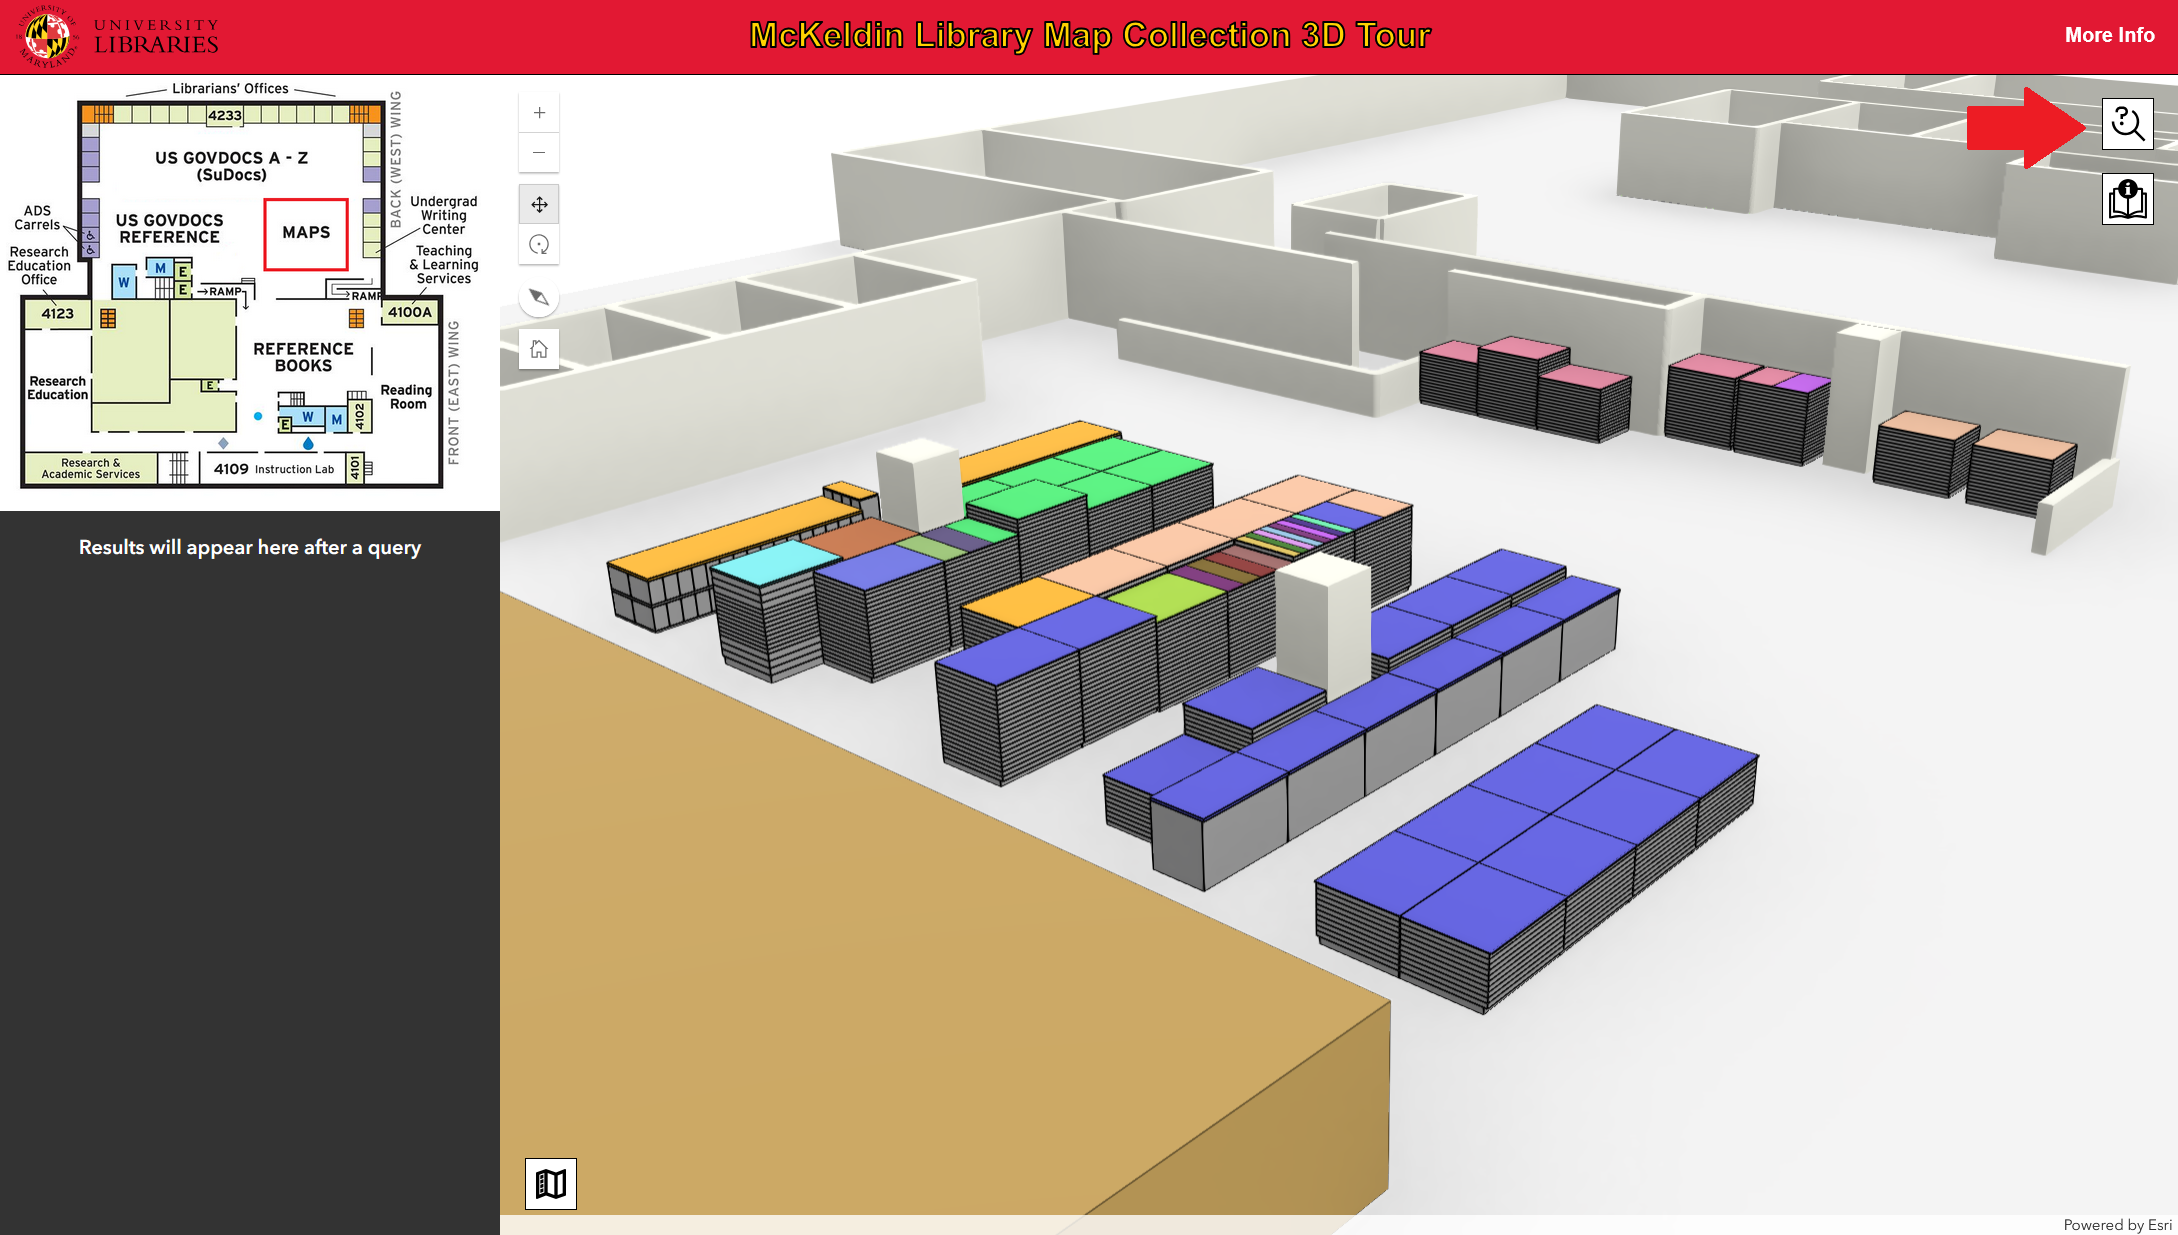
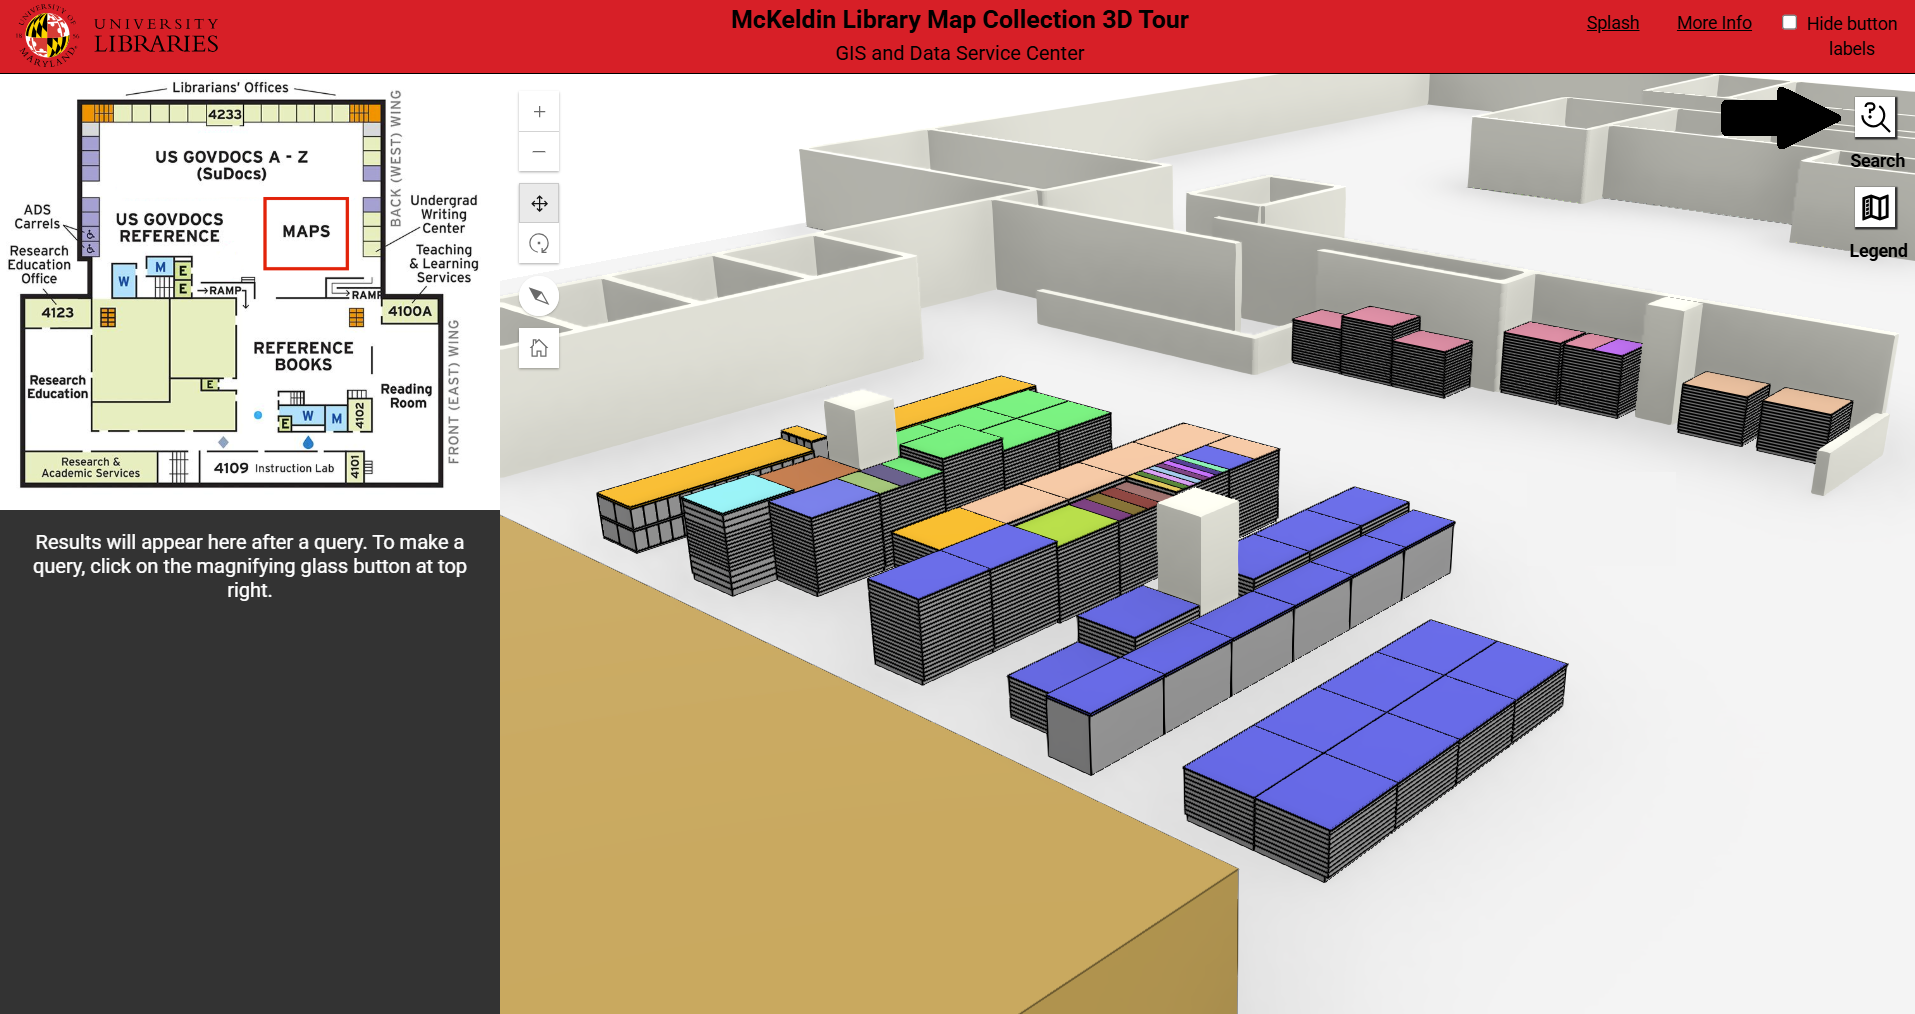
Updated splash page.

diff --git a/index.html b/index.html
@@ -106,46 +106,64 @@
       </div>
       <div id="splash-content">
         <p id="infoModal-text">
-          This app provides a way to explore the McKeldin Library map collection
-          online.
+          This application provides a way to explore the McKeldin Library map
+          collection online. The collection contains over 200,000 items,
+          including maps, relief models, and atlases. There are multiple ways to
+          begin your exploration and discovery process.
         </p>
+        <img
+          id="popup-tutorial"
+          src="images/overview.png"
+          alt="Overview of application"
+        />
         <p id="infoModal-text">
-          Use the map controls at top left to manually explore the 3D
-          environment.
+          Below is an overview of the basic map controls. The zoom buttons allow
+          you to zoom in or out. Movement is primarily controlled through the
+          pan and rotate buttons, which can be toggled on or off as needed. Pan
+          allows you to move around the scene. Rotate allows you to change your
+          viewing angle. The direction button shows where north is in relation
+          to your current viewing angle. Finally, the home button allows you to
+          return to the default starting viewing angle and zoom as desired.
         </p>
         <img
           id="popup-tutorial"
           src="images/map-controls.png"
-          alt="Map Controls"
+          alt="Map controls"
         />
         <p id="infoModal-text">
-          You can search through the collection by clicking on the search
-          button.
+          You can use the controls to move around the scene and click on
+          individual features to get an idea of the categories and ranges of the
+          maps contained within. However, the quickest and easiest way to find
+          specific types of maps is to use the search functionality. This can be
+          accessed by clicking on the search button, shown below.
         </p>
         <img
           id="popup-tutorial"
           src="images/select-tool.png"
-          alt="Select Tool"
+          alt="Select tool"
         />
         <p id="infoModal-text">
-          The search tool menu will open. Choose a search option and then select
-          it with its respective button at left. Note: if you choose the
-          "geographic location" option, use full words, not abbreviations (e.g.,
-          'United States' instead of 'USA'). Then, click on the "Search the
-          collection" button. The "Clear selection" button may be used to clear
-          any highlights in the 3D map.
+          The search menu will open. Choose a search option and then select it
+          with its respective button at left. Search options are map category
+          (e.g., topographic, nautical) and relevant subcategory if applicable,
+          cabinet number, and geographic location. Note: if you choose the
+          latter option, use full words, not abbreviations (e.g., 'United
+          States' instead of 'USA'). Then, click on the "Search the collection"
+          button. The "Clear selection" button may be used to clear any
+          highlights in the 3D map and return to the default (home) view.
         </p>
         <img
           id="popup-tutorial"
           src="images/select-tool-modal.png"
-          alt="Select Tool Modal"
+          alt="Select tool explained"
         />
         <p id="infoModal-text">
           Upon clicking the search button, cabinets with relevant results to
           your query will be highlighted in yellow. In the sidebar, result cards
           for each drawer will appear. You can click on each of these to zoom to
           the drawer; upon clicking, the yellow highlights will be replaced with
-          a red highlight for the selected drawer only.
+          a red highlight for the selected drawer only. A relevant popup
+          containing information about the selected feature will also open.
         </p>
         <p id="mobile-disclaimer">
           NOTE: on mobile devices, result card functionality is not available.
@@ -156,11 +174,15 @@
           alt="Query Results"
         />
         <p id="infoModal-text">
-          You can also explore the map manually using the map controls at top
-          left. Upon clicking on any drawer in the map, a pop-up will appear
-          with all relevant relevant information.
+          Popups can also be opened manually. Refer to the image below for a
+          guide to the information contained in the popup.
         </p>
         <img id="popup-tutorial" src="images/popuphelp.png" alt="Popup Help" />
+        <p id="infoModal-text">
+          We hope that this application is useful to you, and please enjoy
+          exploring the collection. More information about us and a link to our
+          suggestion box can be found in the "More Info" popup.
+        </p>
         <br />
       </div>
       <div id="splash-footer">

diff --git a/style.css b/style.css
@@ -594,7 +594,7 @@ h6 {
   color: black;
   /*background-color: white;*/
   border: 1px solid #333;
-  font-size: 16px;
+  font-size: 14px;
   height: 30px;
   width: 180px;
   margin-left: auto;
